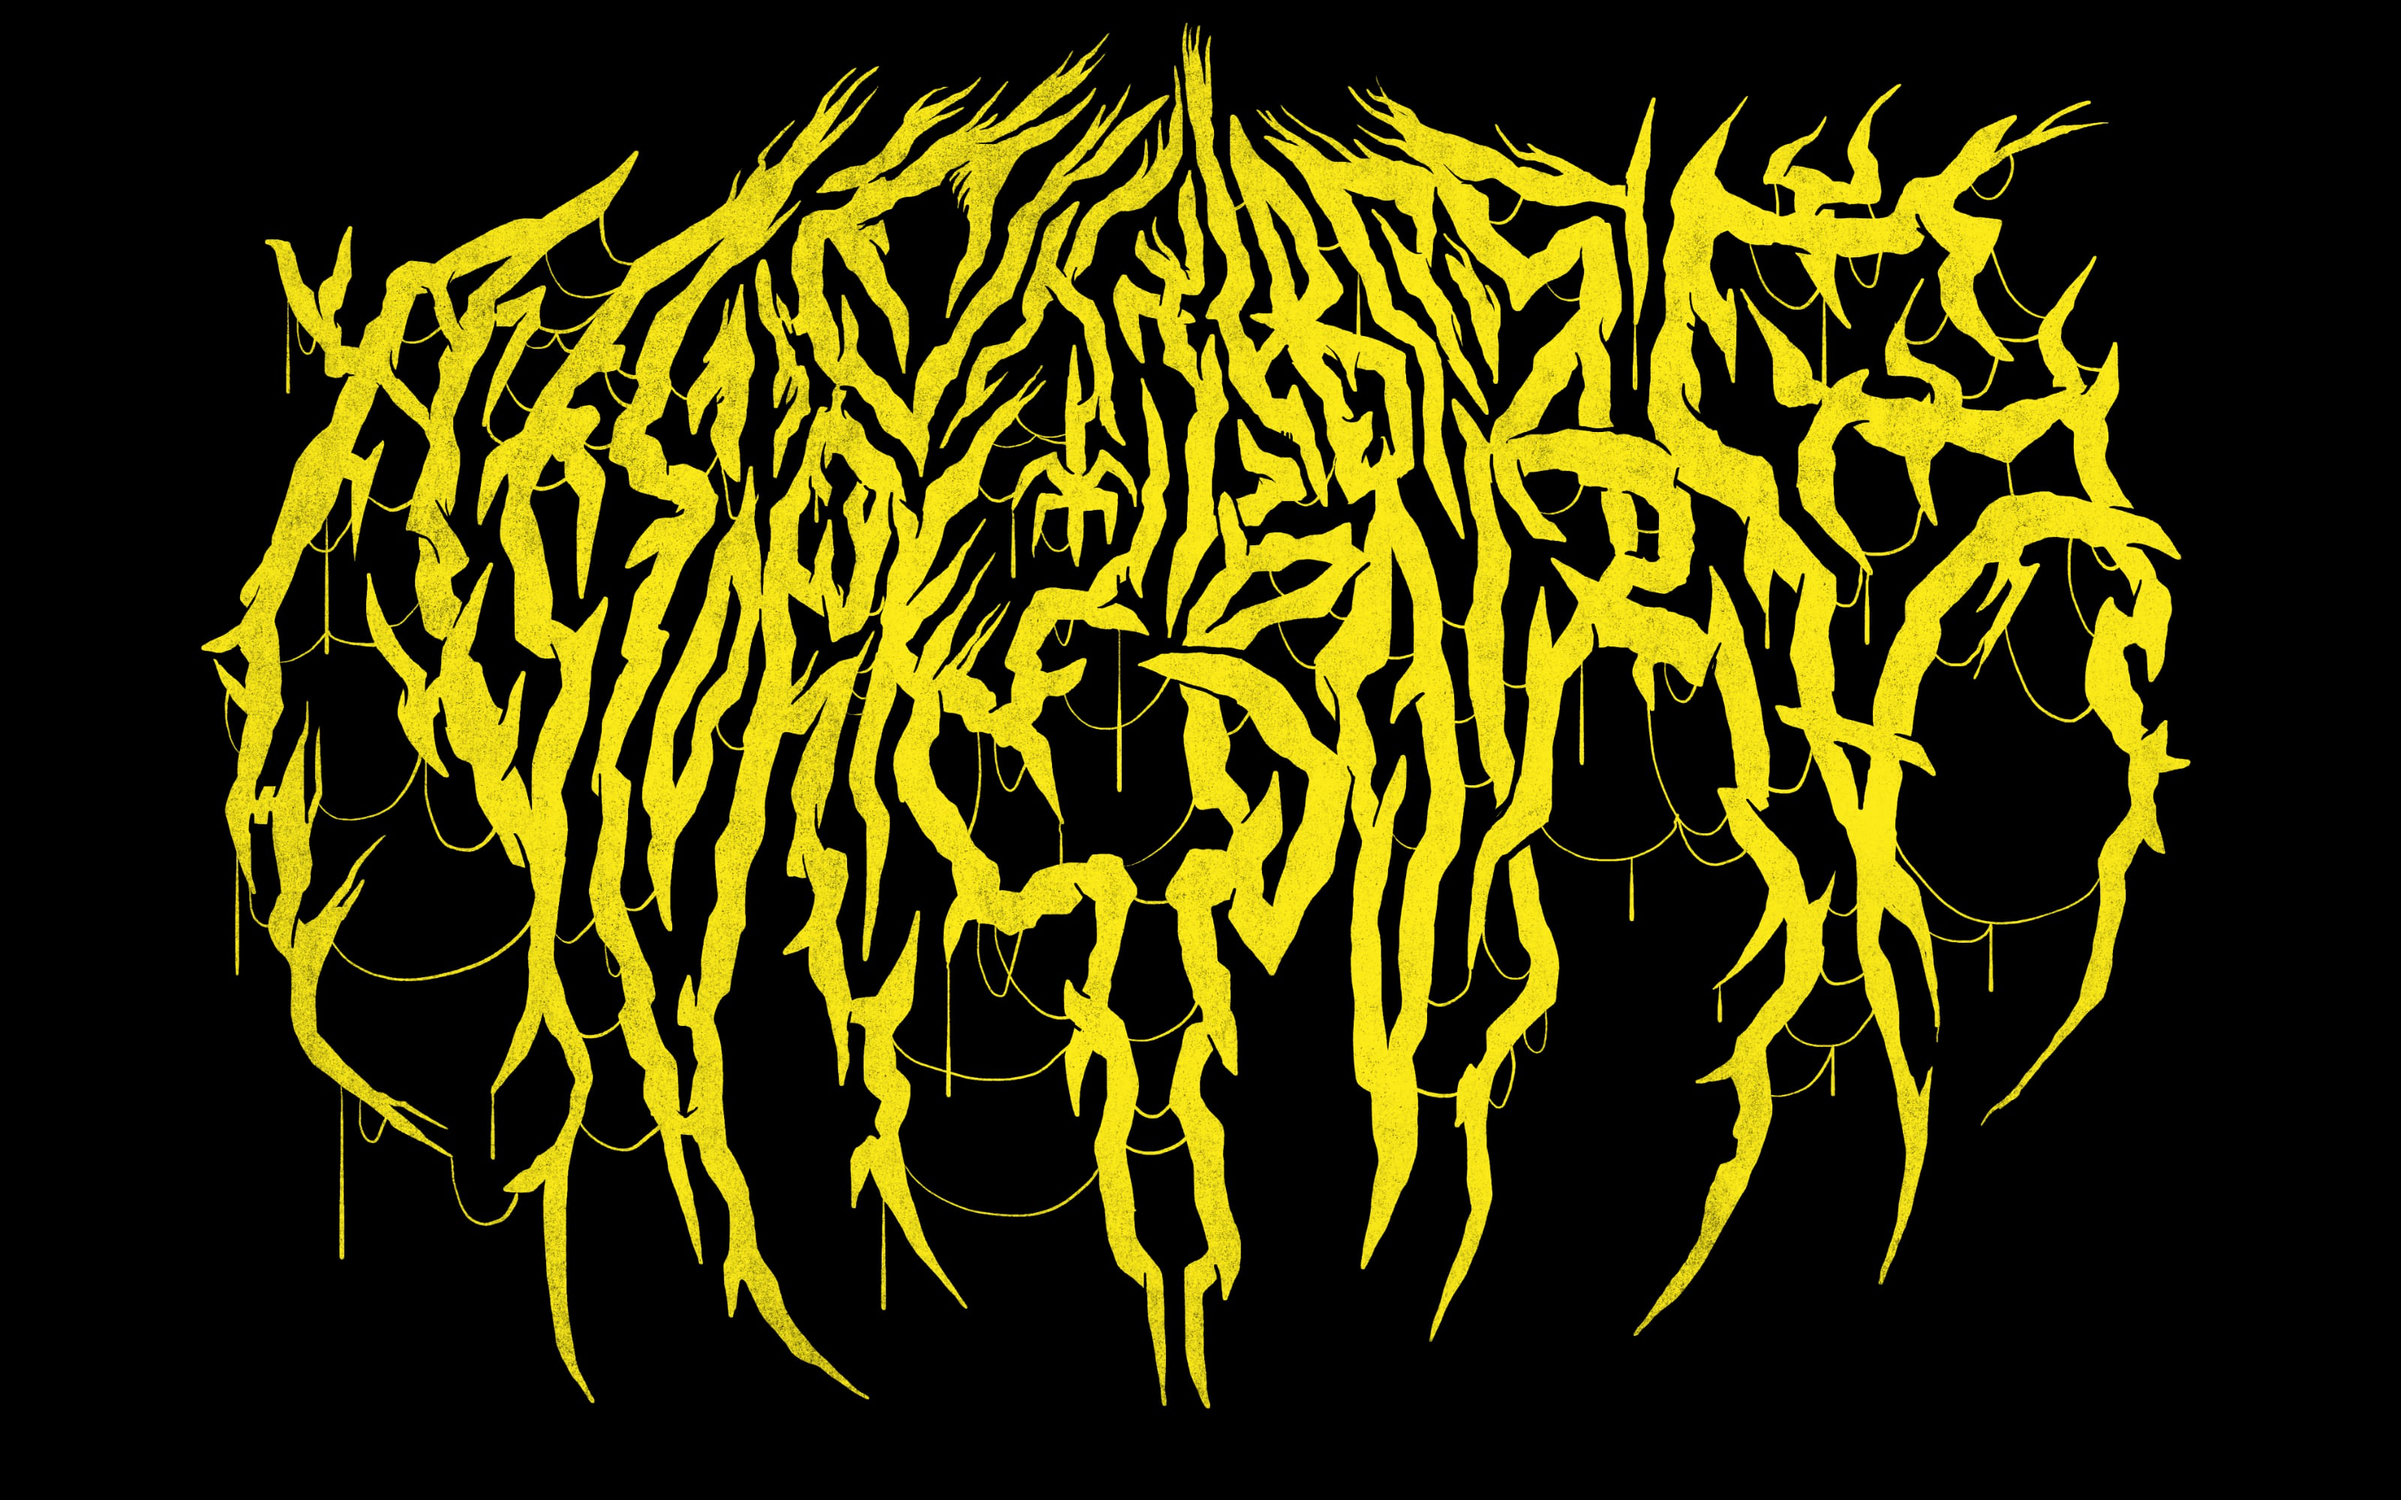
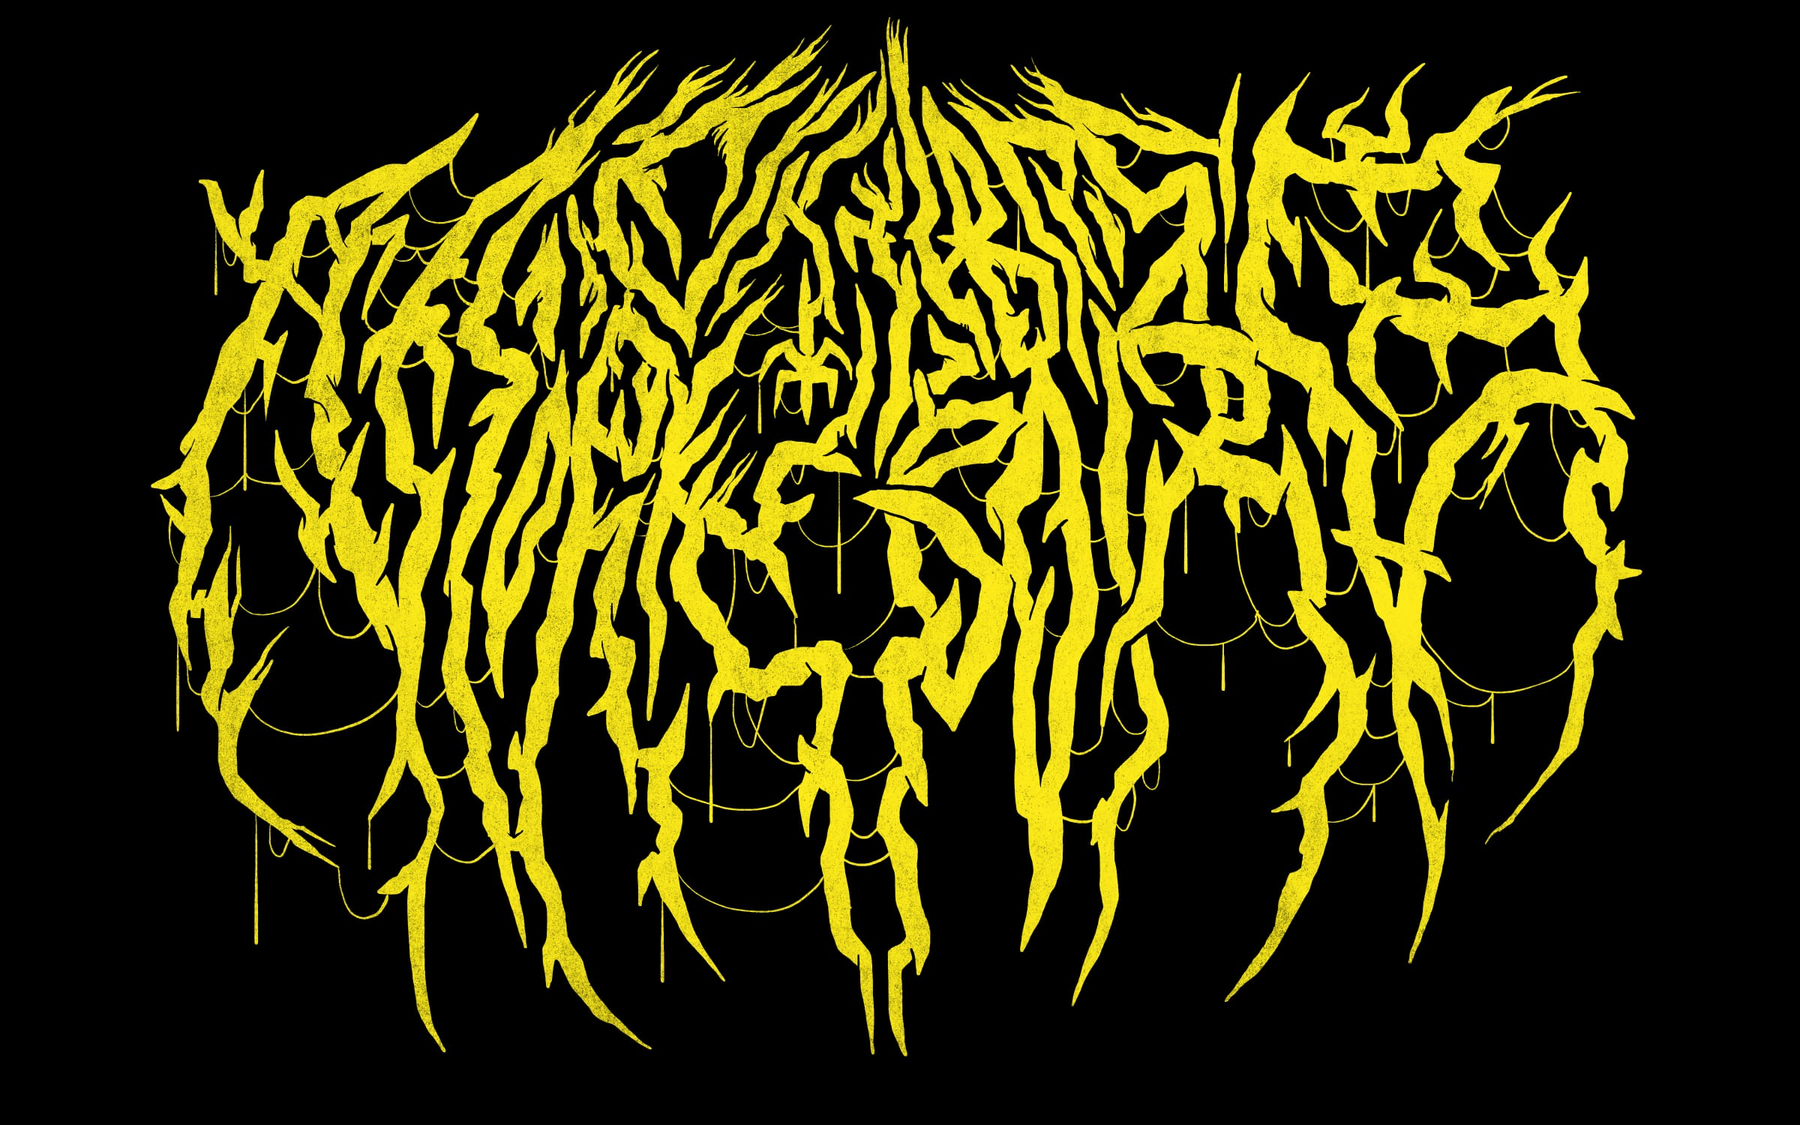
Add fancy scrolling effect

diff --git a/app/javascript/scss/blocks/_dashboard-cover.scss b/app/javascript/scss/blocks/_dashboard-cover.scss
@@ -1,16 +1,22 @@
 .dashboard-cover {
+  --progress: 0;
+
   background-attachment: fixed;
   background-color: black;
   background-image: url("../images/exlibris_yellow.jpg");
   background-position: center center;
   background-repeat: no-repeat;
-  background-size: contain;
+  background-size: calc(80vw + (60vw * var(--progress)));
   display: flex;
   flex-direction: column;
   min-height: 150vh;
 }
 
 .dashboard-cover--content {
+  align-items: flex-start;
+  display: flex;
+  flex-direction: column;
+  justify-content: flex-start;
   margin-top: 100vh;
-  // rotate: -0.03turn; // Highlight is drawn after rotation applied causing a weird result
+  rotate: calc(-0.06turn * var(--progress)); // Highlight is drawn after rotation applied causing a weird result
 }

diff --git a/app/javascript/controllers/scroll_progress_controller.js b/app/javascript/controllers/scroll_progress_controller.js
@@ -1,0 +1,27 @@
+import { Controller } from "stimulus"
+
+export default class extends Controller {
+  initialize() {
+    const resolution = 1000
+    this.options = {
+      rootMargin: "0px 0px 40% 0px",
+      threshold: [...Array(resolution).keys()].map((x) => x / resolution)
+    }
+    this.observer = new IntersectionObserver((entries, observer) => {
+      entries.forEach((entry) => {
+        entry.target.style.setProperty(
+          "--progress",
+          1 - entry.intersectionRatio
+        )
+      })
+    }, this.options)
+  }
+
+  connect() {
+    this.observer.observe(this.element)
+  }
+
+  disconnect() {
+    this.observer.disconnect()
+  }
+}

diff --git a/app/javascript/scss/utilities/_display.scss b/app/javascript/scss/utilities/_display.scss
@@ -1,3 +1,7 @@
 .flex {
   display: flex;
 }
+
+.inline-block {
+  display: inline-block;
+}

diff --git a/app/javascript/scss/utilities/_typography.scss b/app/javascript/scss/utilities/_typography.scss
@@ -3,3 +3,7 @@
     font-family: $family;
   }
 }
+
+.leading-small {
+  max-width: 33ch;
+}
